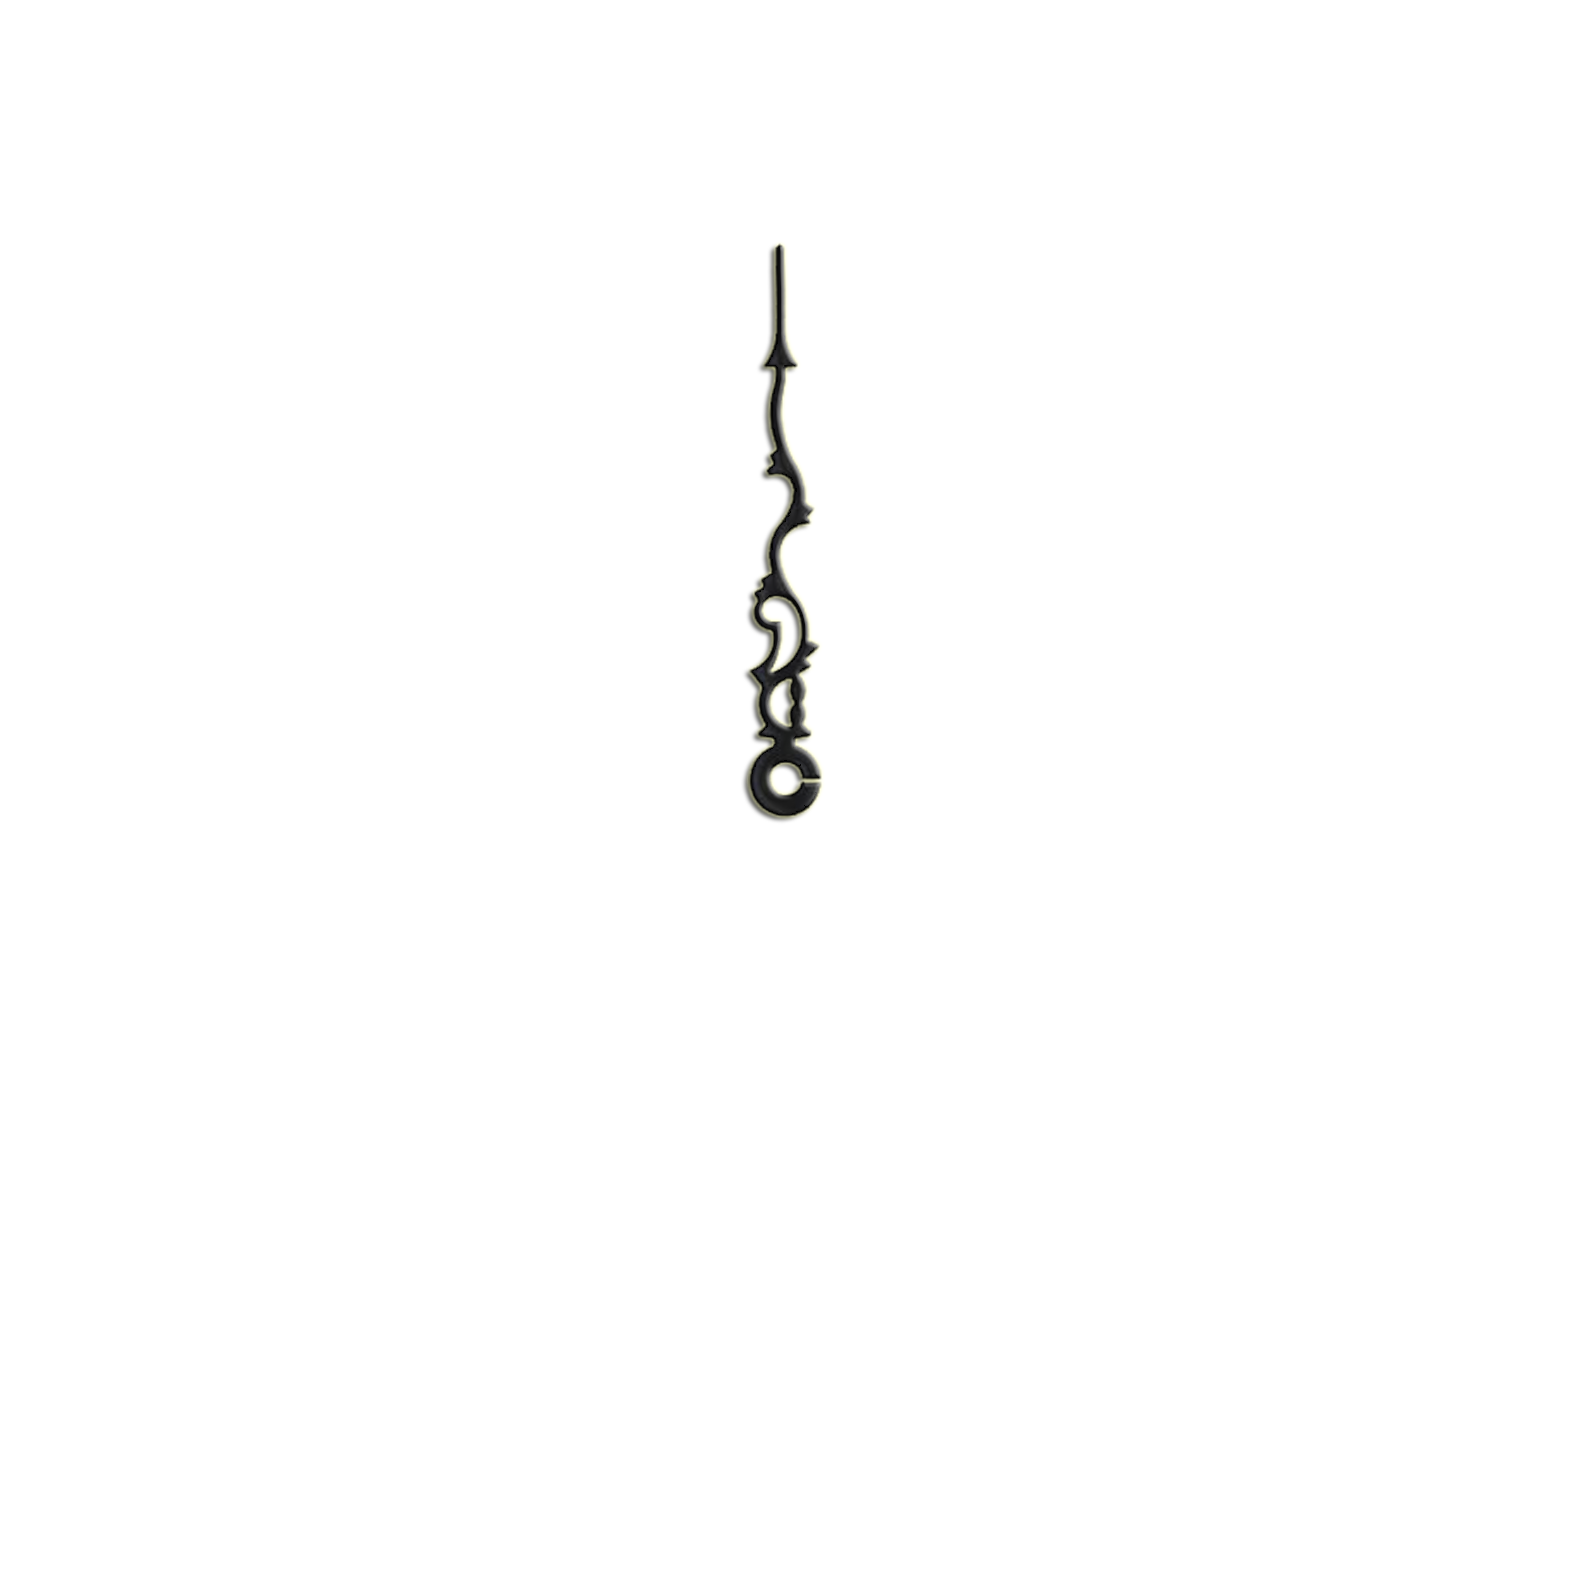
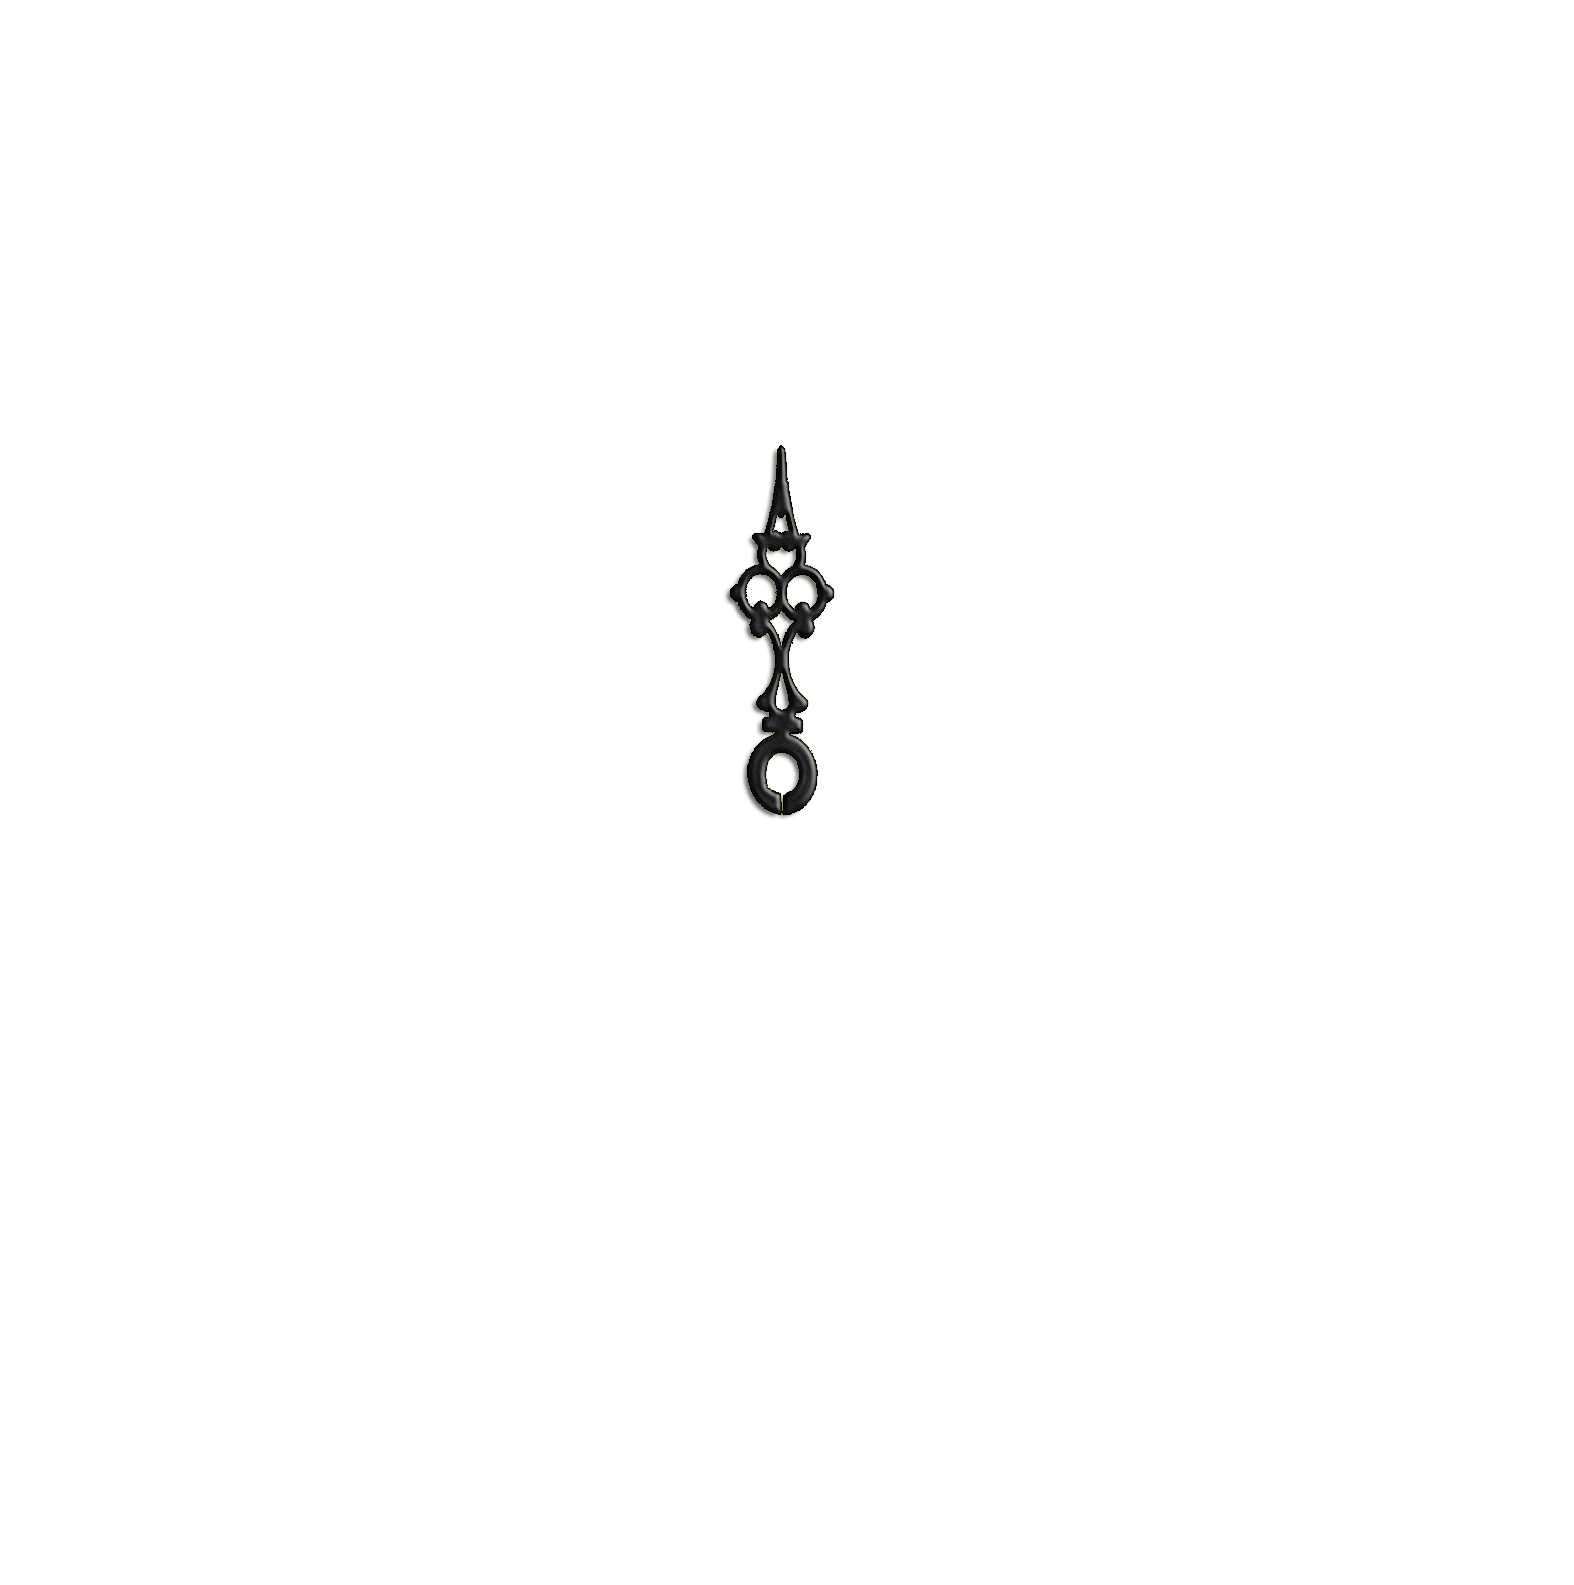
clock error

Changed region(s): [[0.467, 0.1546, 0.5292, 0.5256]]

diff --git a/js/core.js b/js/core.js
@@ -258,23 +258,33 @@ let playState = {
                 nightfall.alpha -= 0.1;
                 if(nightfall.alpha <= 0.05) enviromentAlpha = 1;
             }
-        }, 60000);
+        }, 6000);
 
         clock = game.add.sprite(window.innerWidth - 150, 10, 'clock');
         clock.fixedToCamera = true;
         clock.scale.setTo(0.07, 0.07);
 
-        clock_hr = game.add.sprite(window.innerWidth - 150, 10, 'hour');
+        clock_hr = game.add.sprite(window.innerWidth - 95, 65, 'hour');
         clock_hr.fixedToCamera = true;
         clock_hr.scale.setTo(0.07, 0.07);
+        clock_hr.anchor.setTo(0.5, 0.5);
 
-        clock_min = game.add.sprite(window.innerWidth - 150, 10, 'minute');
+        clock_min = game.add.sprite(window.innerWidth - 95, 65 , 'minute');
         clock_min.fixedToCamera = true;
-        clock_min.scale.setTo(0.07, 0.07)
+        clock_min.scale.setTo(0.07, 0.07);
+        clock_min.anchor.setTo(0.5, 0.5);
 
     },  
 
     update:function update() {
+
+
+        setInterval(function() { 
+
+            clock_hr.angle += 0.1;
+
+        }, 60000);
+       
         
         game.physics.arcade.collide(sam, feet);
       //  game.physics.arcade.overlap(sam, feet, function() { alert("boom"); }, null, this);
